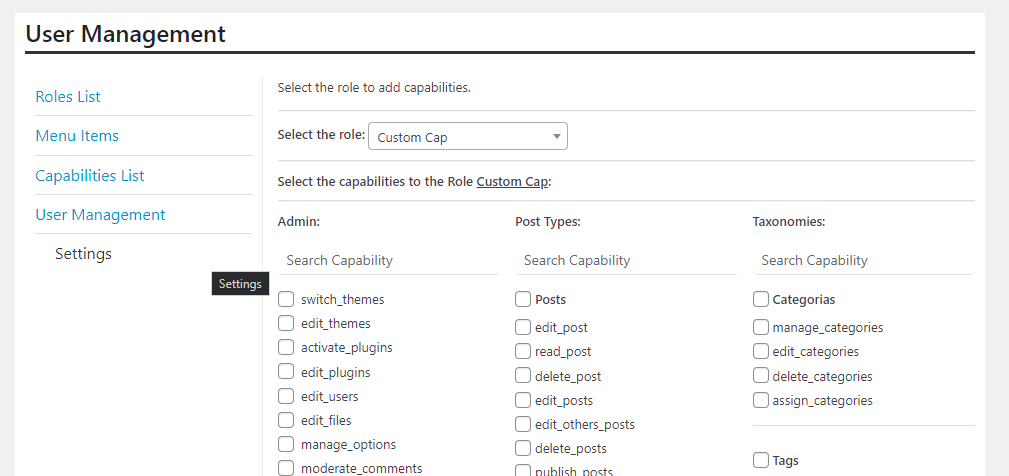
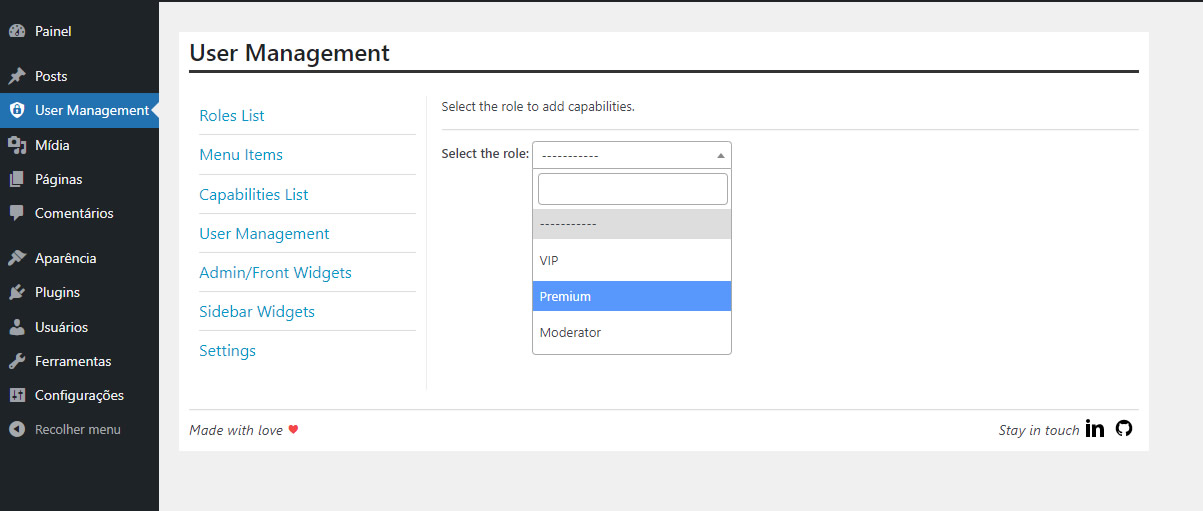
Update plugin lang

diff --git a/README.md b/README.md
@@ -37,3 +37,7 @@ Source files to js: `assets/src/js/`
 ![Screen](./assets/screens/screenshot-5.png "Screen")
 ![Screen](./assets/screens/screenshot-6.png "Screen")
 ![Screen](./assets/screens/screenshot-7.png "Screen")
+![Screen](./assets/screens/screenshot-8.png "Screen")
+![Screen](./assets/screens/screenshot-9.png "Screen")
+![Screen](./assets/screens/screenshot-10.png "Screen")
+![Screen](./assets/screens/screenshot-11.png "Screen")
